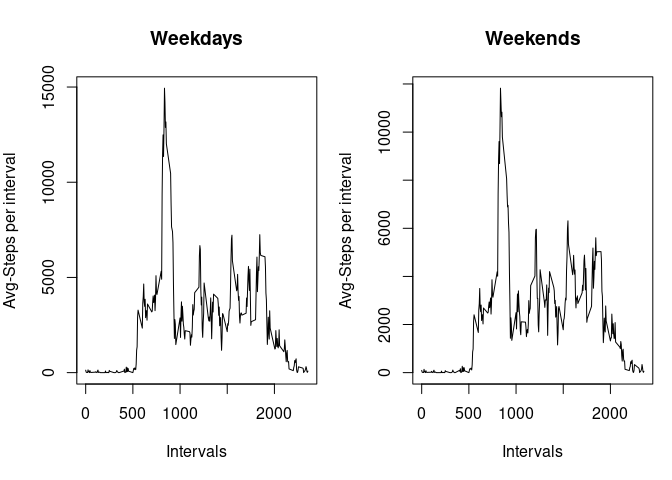
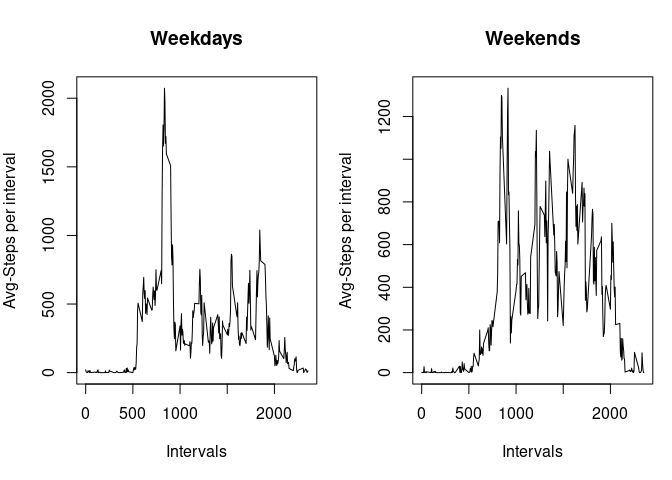
Add files via upload

diff --git a/AssignmentW2.md b/AssignmentW2.md
@@ -32,9 +32,9 @@ ignored.)
 
 ### Histogram of Total Steps per Day
 
-    hist(per_day, breaks=10, xlab='Avg-Steps per day')
+    hist(per_day, breaks=10, xlab='Total-Steps per day')
 
-![](/unnamed-chunk-3-1.png)
+![](AssignmentW2_files/figure-markdown_strict/unnamed-chunk-3-1.png)
 
     s
 
@@ -59,13 +59,13 @@ Steps are recorded as total 288 of 5-min intervals each day.
 Average steps during each interval is calculated. (NA values are
 ignored.)
 
-    per_interval<-tapply(activity$steps, activity$interval, sum, na.rm=TRUE)
+    per_interval<-tapply(activity$steps, activity$interval, mean, na.rm=TRUE)
     max_steps <- max(per_interval)
     max_interval <- rownames(per_interval)[per_interval==max_steps]
     summary(per_interval)
 
     ##    Min. 1st Qu.  Median    Mean 3rd Qu.    Max. 
-    ##     0.0   131.8  1808.0  1981.3  2800.2 10927.0
+    ##   0.000   2.486  34.113  37.383  52.835 206.170
 
 ### Average number of steps per interval
 
@@ -74,13 +74,13 @@ ignored.)
     abline(v=max_interval)
     text(x=max_interval, y=0, labels=max_interval)
 
-![](/unnamed-chunk-5-1.png)
+![](AssignmentW2_files/figure-markdown_strict/unnamed-chunk-5-1.png)
 
     max_steps
 
-    ## [1] 10927
+    ## [1] 206.1698
 
-As you can see, the interval with maximum steps(10927) is 835.
+As you can see, the interval with maximum steps(206.1698113) is 835.
 
 Imputing Missing Data
 ---------------------
@@ -98,13 +98,13 @@ avg-steps per interval.
     activity2$steps[is.na(activity2$steps)]<-per_interval[na_interval]
     head(activity2)
 
-    ##   steps       date interval
-    ## 1    91 2012-10-01        0
-    ## 2    18 2012-10-01        5
-    ## 3     7 2012-10-01       10
-    ## 4     8 2012-10-01       15
-    ## 5     4 2012-10-01       20
-    ## 6   111 2012-10-01       25
+    ##       steps       date interval
+    ## 1 1.7169811 2012-10-01        0
+    ## 2 0.3396226 2012-10-01        5
+    ## 3 0.1320755 2012-10-01       10
+    ## 4 0.1509434 2012-10-01       15
+    ## 5 0.0754717 2012-10-01       20
+    ## 6 2.0943396 2012-10-01       25
 
 ### Histogram of total steps per day with replaced missing data
 
@@ -112,22 +112,22 @@ avg-steps per interval.
     s3 <- summary(per_day2)
     median2 <- s3[[3]]
     mean2 <- s3[[4]]
-    hist(per_day2, breaks=10, xlab='Avg-Steps per day')
+    hist(per_day2, breaks=10, xlab='Total-Steps per day')
 
-![](/unnamed-chunk-8-1.png)
+![](AssignmentW2_files/figure-markdown_strict/unnamed-chunk-8-1.png)
 
     s3
 
     ##    Min. 1st Qu.  Median    Mean 3rd Qu.    Max. 
-    ##      41    9819   11458   84188   15084  570608
+    ##      41    9819   10766   10766   12811   21194
 
     median2
 
-    ## [1] 11458
+    ## [1] 10766.19
 
     mean2
 
-    ## [1] 84188.07
+    ## [1] 10766.19
 
     median
 
@@ -137,7 +137,7 @@ avg-steps per interval.
 
     ## [1] 9354.23
 
-Now, median and mean become 1.145810^{4} and 8.418806610^{4}.  
+Now, median and mean become 1.076618910^{4} and 1.076618910^{4}.  
 It was 10395 and 9354.2295082 before.  
 Median only changed a bit while mean increased enormously.  
 Let’s see how many data were missed in each interval.
@@ -188,7 +188,7 @@ Below is the summary of values replaced.
     summary(per_interval[na_interval])
 
     ##    Min. 1st Qu.  Median    Mean 3rd Qu.    Max. 
-    ##     0.0   131.8  1808.0  1981.3  2800.2 10927.0
+    ##   0.000   2.486  34.113  37.383  52.835 206.170
 
 So, most of the data are below 2800 steps while maximum is over 10000.
 This may be why data averages and histogram changed.
@@ -205,13 +205,13 @@ Now, let’s see weekdays and weekends impact on activity.
     activity2$weekday[is_weekend]<-'weekend'
     head(activity2)
 
-    ##   steps       date interval weekday
-    ## 1    91 2012-10-01        0 weekday
-    ## 2    18 2012-10-01        5 weekday
-    ## 3     7 2012-10-01       10 weekday
-    ## 4     8 2012-10-01       15 weekday
-    ## 5     4 2012-10-01       20 weekday
-    ## 6   111 2012-10-01       25 weekday
+    ##       steps       date interval weekday
+    ## 1 1.7169811 2012-10-01        0 weekday
+    ## 2 0.3396226 2012-10-01        5 weekday
+    ## 3 0.1320755 2012-10-01       10 weekday
+    ## 4 0.1509434 2012-10-01       15 weekday
+    ## 5 0.0754717 2012-10-01       20 weekday
+    ## 6 2.0943396 2012-10-01       25 weekday
 
 Calculate avg steps per interval for weekdays and weekends.
 
@@ -221,4 +221,4 @@ Calculate avg steps per interval for weekdays and weekends.
     plot(unique(activity2$interval), per_interval2$weekday/5, type='l',  xlab='Intervals',ylab='Avg-Steps per interval',main='Weekdays')
     plot(unique(activity2$interval), per_interval2$weekend/2, type='l', xlab='Intervals',ylab='Avg-Steps per interval',main='Weekends')
 
-![](/unnamed-chunk-12-1.png)
+![](AssignmentW2_files/figure-markdown_strict/unnamed-chunk-12-1.png)
